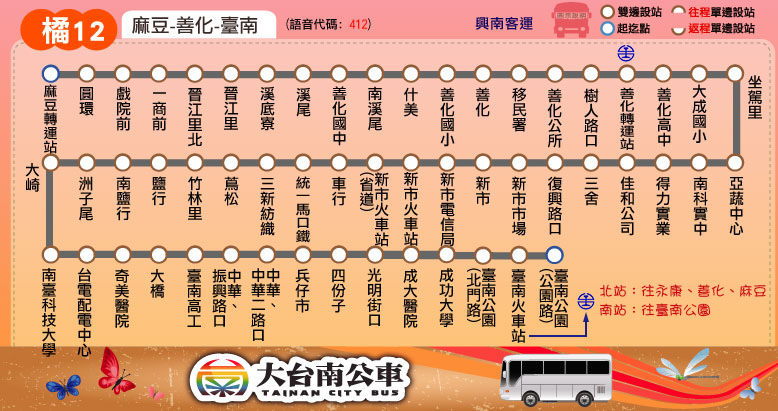
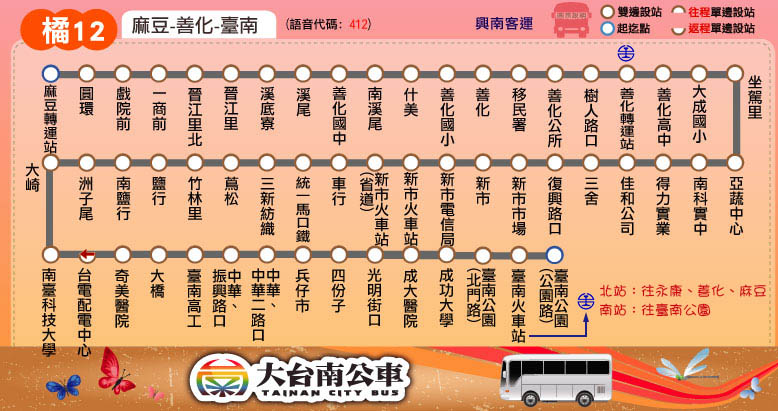
更新路線圖：綠5(新增永康科技園區)、橘12(台電配電中心改單向)、20路(大灣改單向)

diff --git a/route/fare_and_time/green_5.js b/route/fare_and_time/green_5.js
@@ -1,14 +1,13 @@
 green_5_interval_name = ["永康","西勢","車行","新市<br />火車站","新市","潭頂","大社"];
 green_5_interval_stop = [
 ["永康火車站","自強路口","永康"], // 永康
-["龍潭口","德芳社區","西勢","王行"], // 西勢
+["龍潭口","德芳社區","西勢","王行","永康科技園區"], // 西勢
 ["車行里","國際紡織"], // 車行
 ["新市火車站(省道)","新市火車站"], // 新市火車站
 ["新市電信局","新市","新市市場","新市國小","新市服務站"], // 新市
 ["港墘","潭頂"], // 潭頂
 ["新大社","大社國小","大社南","大社"] // 大社
 ];
-green_5_stop_time_consume = [0,1,1,2,3,4,5,7,8,10,10,12,13,15,16,17,19,21,22,23,24,25];
 green_5_fare = [
 [26],
 [26,26],
